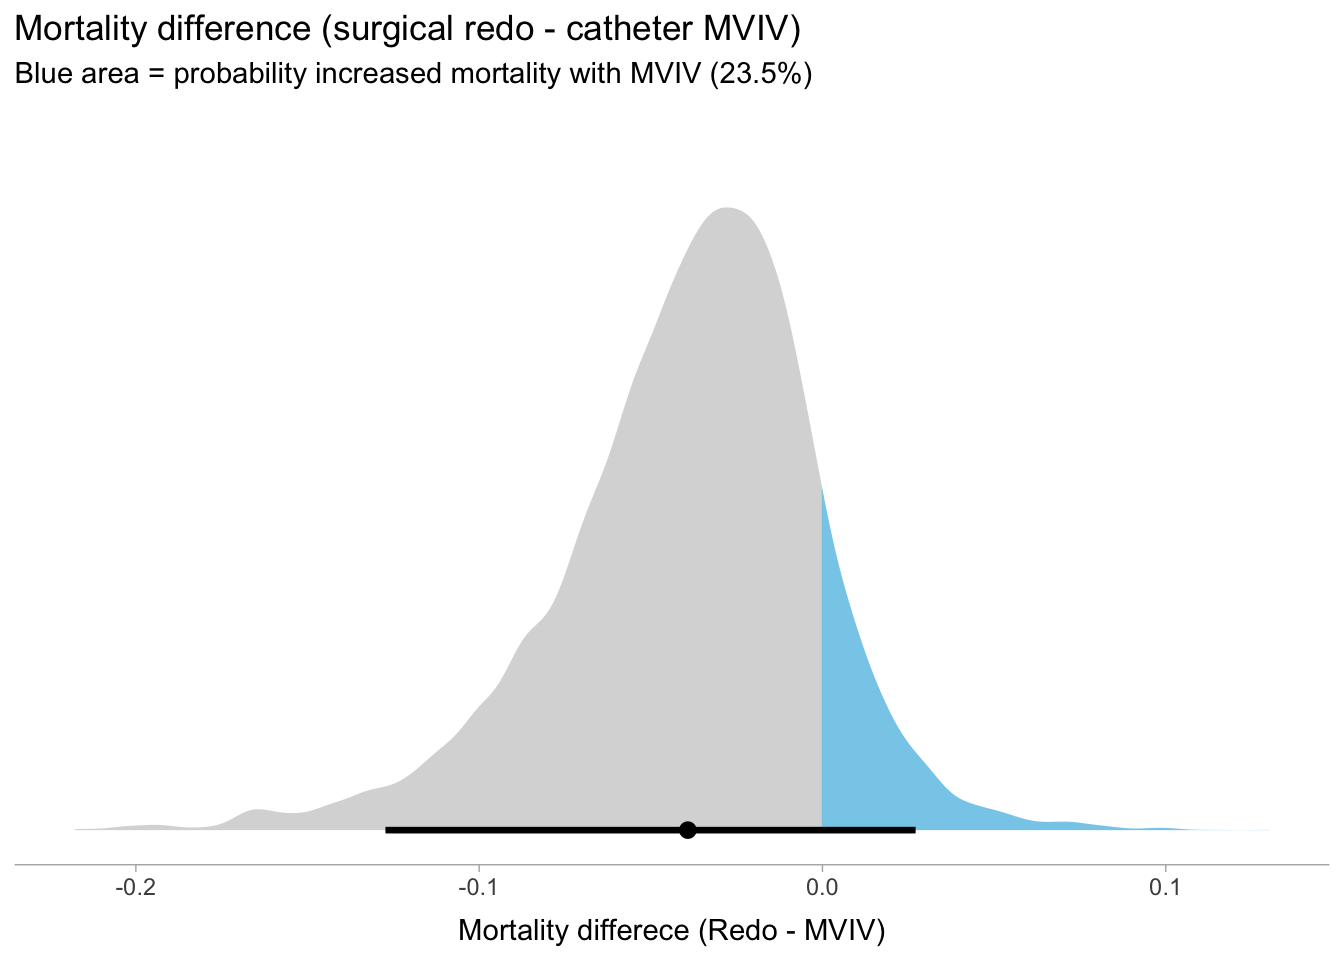
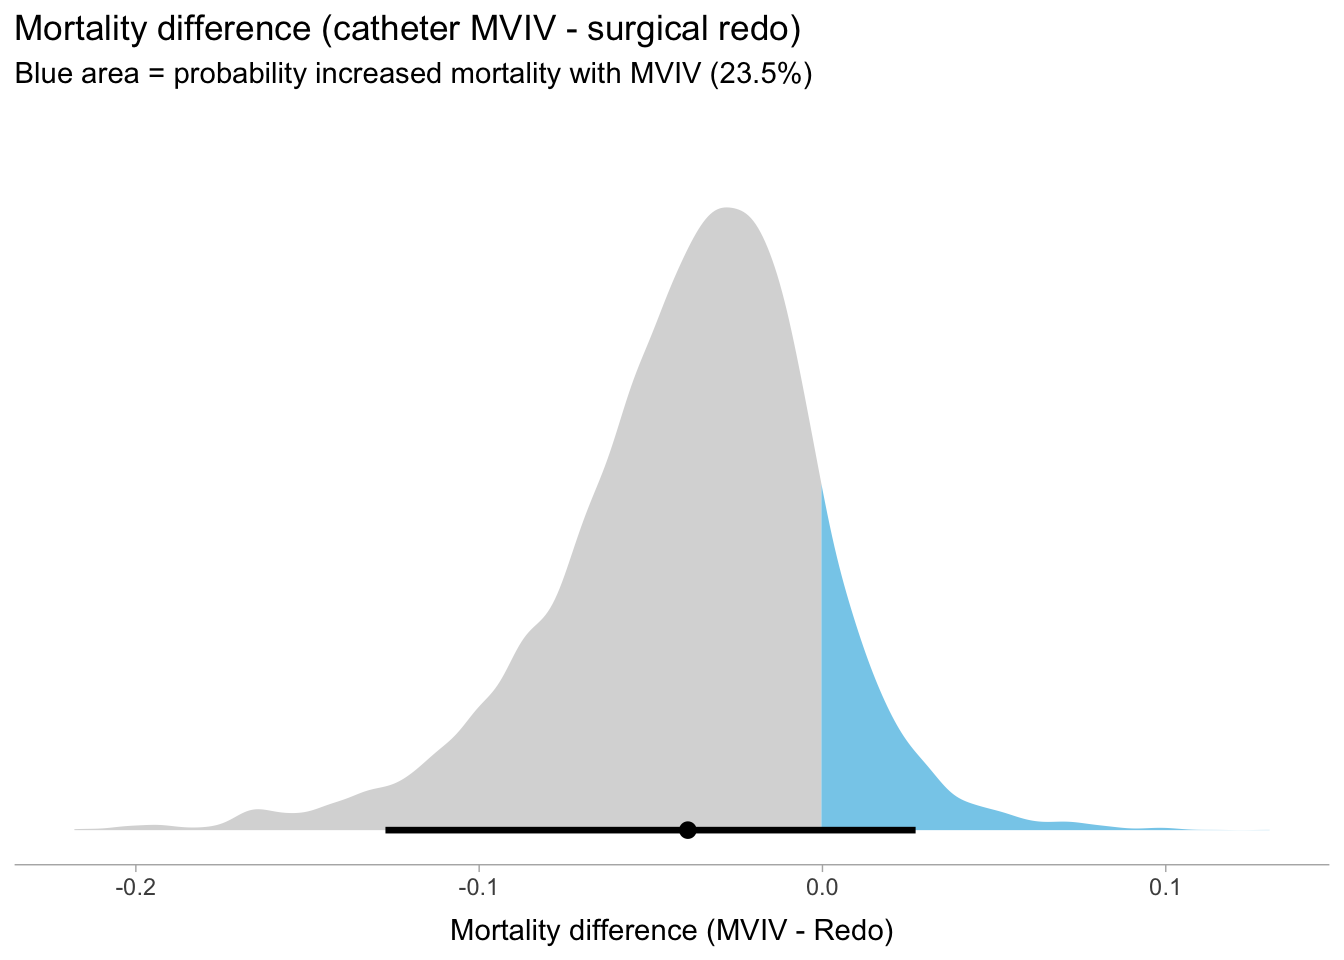
fixing graph

Changed region(s): [[0.25, 0.0, 0.5938, 0.0625], [0.3438, 0.9375, 0.6562, 1.0]]

diff --git a/docs/posts/2024-09-30-Reflections-on-uncertainties/index.html b/docs/posts/2024-09-30-Reflections-on-uncertainties/index.html
@@ -649,8 +649,8 @@ scale reduction factor on split chains (at convergence, Rhat = 1).</code></pre>
 <span>  <span class="fu">stat_halfeye</span><span class="op">(</span>point_interval <span class="op">=</span> <span class="va">mean_qi</span>, .width <span class="op">=</span> <span class="fl">.95</span><span class="op">)</span> <span class="op">+</span></span>
 <span>  <span class="fu">scale_fill_manual</span><span class="op">(</span>values <span class="op">=</span> <span class="fu"><a href="https://rdrr.io/r/base/c.html">c</a></span><span class="op">(</span><span class="st">"gray85"</span>, <span class="st">"skyblue"</span><span class="op">)</span><span class="op">)</span> <span class="op">+</span></span>
 <span>  <span class="fu">scale_y_continuous</span><span class="op">(</span><span class="cn">NULL</span>, breaks <span class="op">=</span> <span class="cn">NULL</span><span class="op">)</span> <span class="op">+</span></span>
-<span>  <span class="fu">xlab</span><span class="op">(</span><span class="st">"Mortality differece (Redo - MVIV)"</span><span class="op">)</span> <span class="op">+</span></span>
-<span>  <span class="fu">labs</span><span class="op">(</span>title <span class="op">=</span> <span class="st">"Mortality difference (surgical redo - catheter MVIV)"</span>,</span>
+<span>  <span class="fu">xlab</span><span class="op">(</span><span class="st">"Mortality difference (MVIV - Redo)"</span><span class="op">)</span> <span class="op">+</span></span>
+<span>  <span class="fu">labs</span><span class="op">(</span>title <span class="op">=</span> <span class="st">"Mortality difference (catheter MVIV - surgical redo)"</span>,</span>
 <span>       subtitle <span class="op">=</span> <span class="st">"Blue area = probability increased mortality with MVIV (23.5%)"</span><span class="op">)</span> <span class="op">+</span></span>
 <span>  <span class="fu">theme_ggdist</span><span class="op">(</span><span class="op">)</span> <span class="op">+</span></span>
 <span>  <span class="fu">theme</span><span class="op">(</span>legend.position <span class="op">=</span> <span class="st">"none"</span><span class="op">)</span></span></code><button title="Copy to Clipboard" class="code-copy-button"><i class="bi"></i></button></pre></div>
@@ -1168,7 +1168,7 @@ dateElements.forEach((el) => {
     "$1<sup style='font-size:0.5em;font-style:italic;'>$2</sup>"
   );
 });
-</script><script>var lightboxQuarto = GLightbox({"loop":false,"descPosition":"bottom","closeEffect":"zoom","selector":".lightbox","openEffect":"zoom"});
+</script><script>var lightboxQuarto = GLightbox({"selector":".lightbox","loop":false,"descPosition":"bottom","openEffect":"zoom","closeEffect":"zoom"});
 window.onload = () => {
   lightboxQuarto.on('slide_before_load', (data) => {
     const { slideIndex, slideNode, slideConfig, player, trigger } = data;

diff --git a/docs/blog.html b/docs/blog.html
@@ -252,7 +252,7 @@ window.Quarto = {
 
 <div class="quarto-listing quarto-listing-container-default" id="listing-listing">
 <div class="list quarto-listing-default">
-<div class="quarto-post image-right" data-index="0" data-categories="Uncertainty,Probability distributions" data-listing-date-sort="1727638795000" data-listing-file-modified-sort="1727659589206" data-listing-date-modified-sort="NaN" data-listing-reading-time-sort="17" data-listing-word-count-sort="3266">
+<div class="quarto-post image-right" data-index="0" data-categories="Uncertainty,Probability distributions" data-listing-date-sort="1727638795000" data-listing-file-modified-sort="1727661440731" data-listing-date-modified-sort="NaN" data-listing-reading-time-sort="17" data-listing-word-count-sort="3266">
 <div class="thumbnail">
 <p><a href="./posts/2024-09-30-Reflections-on-uncertainties/index.html" class="no-external"></a></p><a href="./posts/2024-09-30-Reflections-on-uncertainties/index.html" class="no-external">
 <p><img src="./posts/2024-09-30-Reflections-on-uncertainties/preview-image.jpg" class="thumbnail-image"></p>
